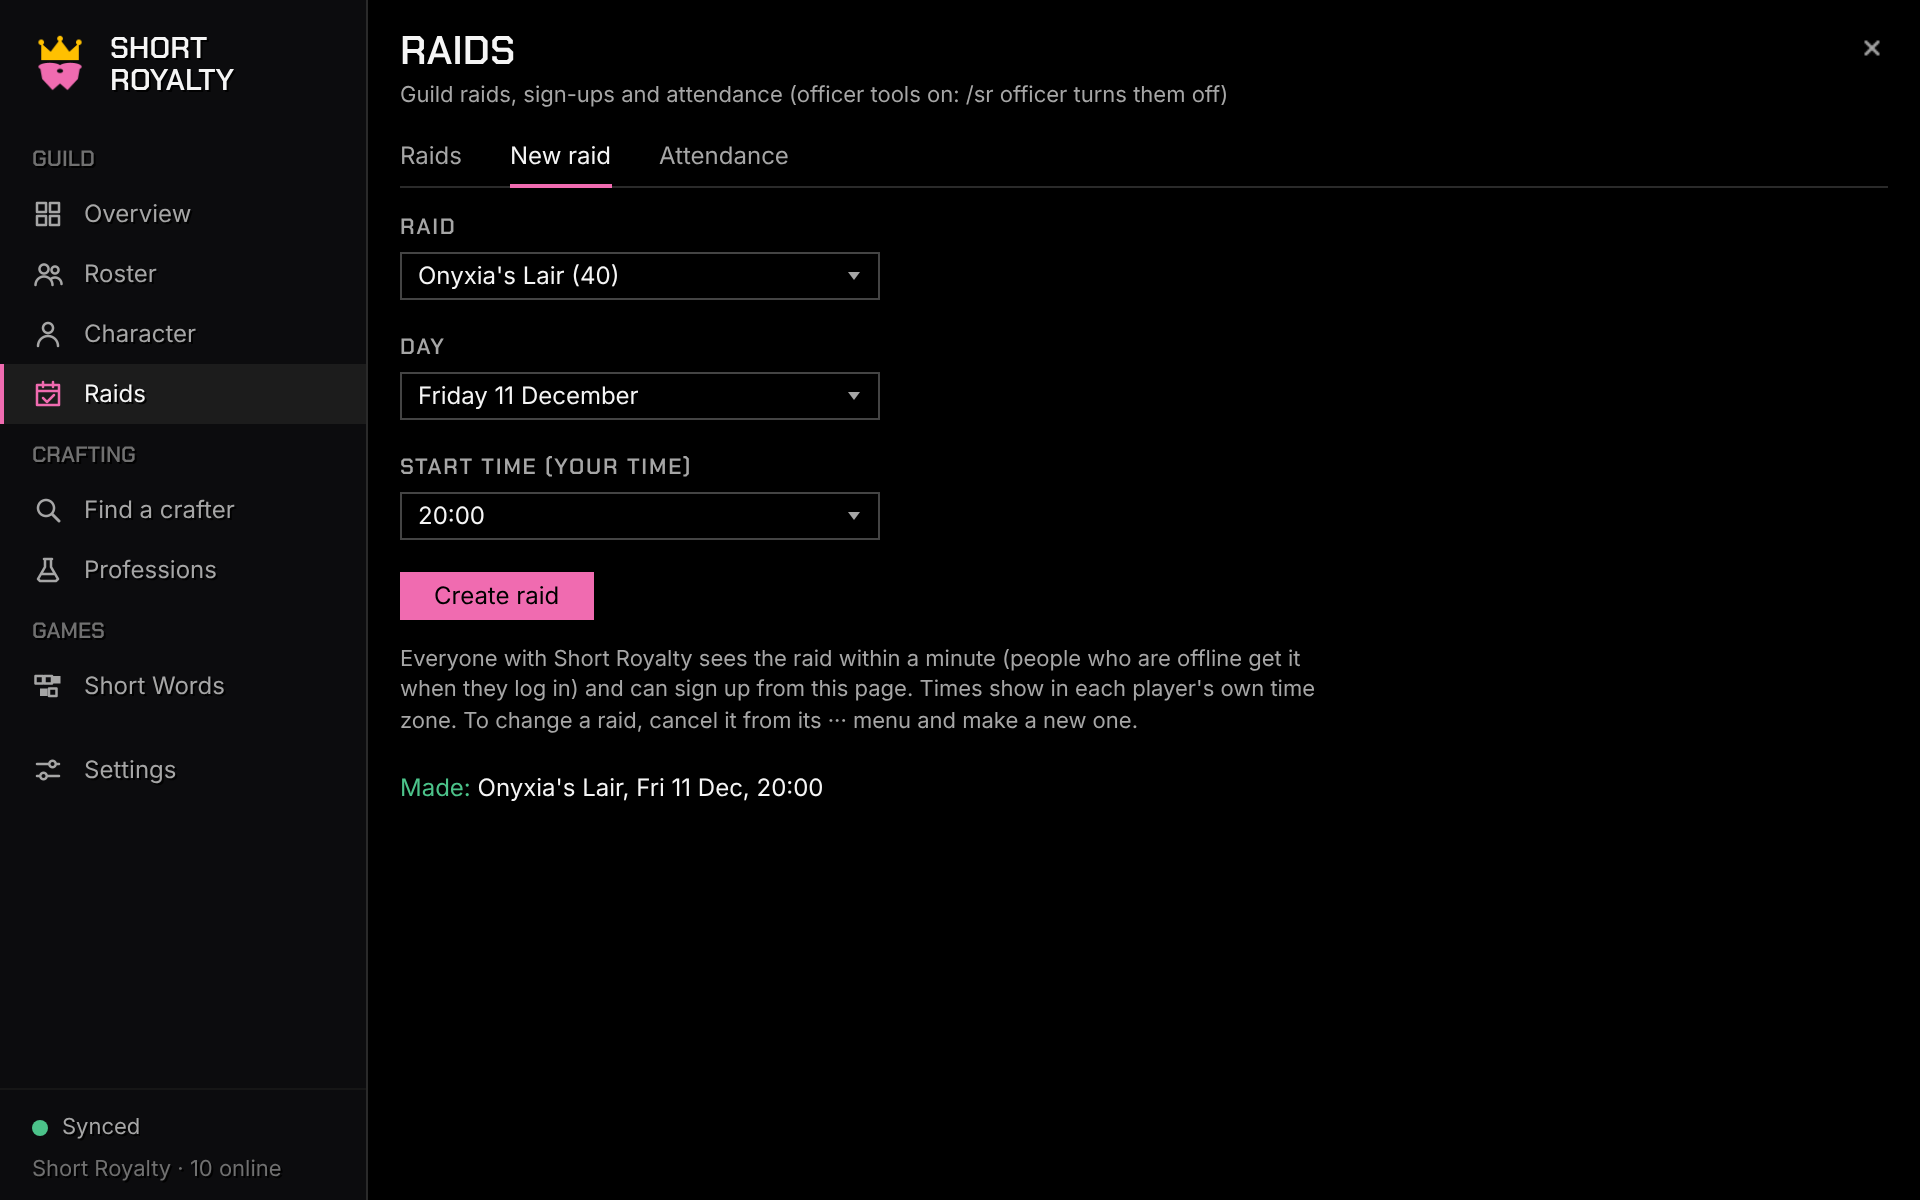
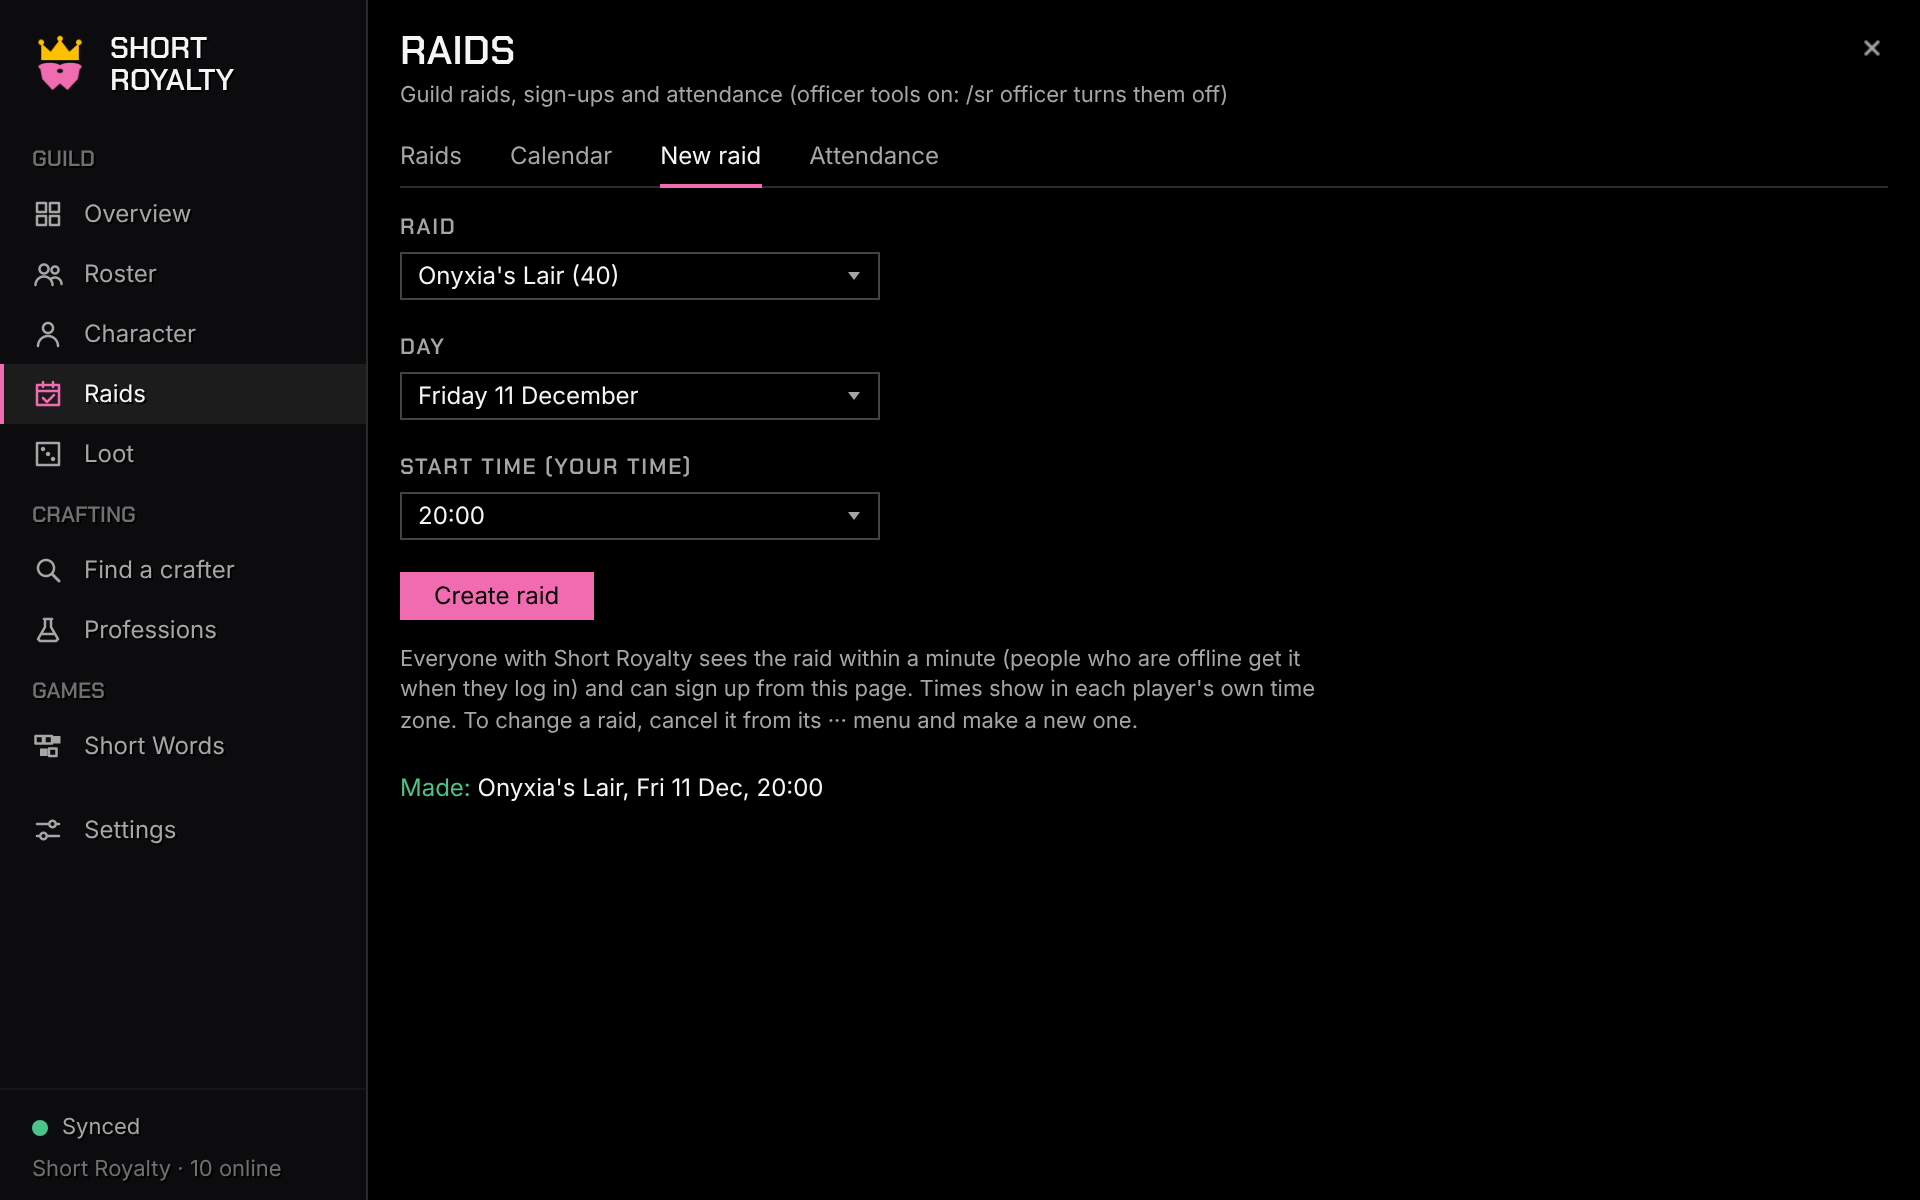
Release v0.10.2: raid calendar (month view)
Claude-Session: https://claude.ai/code/session_01A7mubGdPYGXe41A4ZcDyrF

diff --git a/preview/index.html b/preview/index.html
@@ -805,13 +805,34 @@ function words() {
 function raids() {
   const officer = S.officer === "1";
   let view = S.raidsView || "upcoming";
-  if (!officer && view !== "upcoming") view = "upcoming";
-  const tabs = [["upcoming", "Raids"]].concat(officer ? [["new", "New raid"], ["attendance", "Attendance"]] : []);
+  if (!officer && view !== "upcoming" && view !== "calendar") view = "upcoming";
+  const tabs = [["upcoming", "Raids"], ["calendar", "Calendar"]].concat(officer ? [["new", "New raid"], ["attendance", "Attendance"]] : []);
   const t0 = T.sizes.subTabs + T.space.m;
   const head = subtabs(tabs, view, "data-rv");
   const menu = (text, style) => `<div class="menu abs" style="${style}">${btn(text).replace("</span>", '<i class="arrow"></i></span>')}</div>`;
   const M = G.members;
   const nm = (m) => cls(m);
+  if (view === "calendar") {
+    // v0.10.2: December 2026 starts on a Tuesday; today = Wed 2 Dec.
+    const CW = Math.floor(T.sizes.contentW / 7), gy = t0 + 24 + 8 + 20;
+    const CH = Math.floor((600 - 60 - 4 - 16 - 30 - 12 - (24 + 8 + 20)) / 6);
+    const RAIDS = { 4: [["20:00 Onyxia", "good"]], 9: [["19:30 Barrow", ""]], 11: [["18:30 Hyjal", "acc"], ["20:00 Onyxia", "good"]], 16: [["19:30 Hyjal", ""]],
+      18: [["20:00 Onyxia", "faint"]], 23: [["19:30 Barrow", ""]], 30: [["20:00 Onyxia", ""]] };
+    let cells = "";
+    for (let i = 0; i < 42; i++) {
+      const day = i === 0 ? 30 : i <= 31 ? i : i - 31, inMonth = i >= 1 && i <= 31, today = i === 2, past = i < 2;
+      const rs = inMonth ? (RAIDS[day] || []) : [];
+      cells += `<div class="abs" style="left:${(i % 7) * CW}px;top:${gy + Math.floor(i / 7) * CH}px;width:${CW - 4}px;height:${CH - 4}px;border:1px solid var(--${today ? "accent" : "line"});background:${today ? "var(--accent-selected)" : inMonth ? "var(--surface)" : "var(--void)"}">
+        <div class="small ${today ? "" : inMonth && !past ? "dim" : "faint"}" style="padding:1px 4px">${day}</div>
+        ${rs.map((r) => `<div class="${r[1]}" style="font-size:11px;padding:0 4px;white-space:nowrap;overflow:hidden">${r[0]}</div>`).join("")}</div>`;
+    }
+    return head + `${btn("<", "", `style="position:absolute;left:0;top:${t0}px;width:32px;padding:0;justify-content:center"`)}${btn(">", "", `style="position:absolute;left:36px;top:${t0}px;width:32px;padding:0;justify-content:center"`)}
+      <div class="abs" style="left:80px;top:${t0 + 3}px;font-size:15px">December 2026</div>
+      <div class="abs dim small" style="right:72px;top:${t0 + 5}px">${officer ? "Click a day to make a raid on it" : "Click a raid to sign up"}</div>
+      ${btn("Today", "", `style="position:absolute;right:0;top:${t0}px"`)}
+      ${["Mon", "Tue", "Wed", "Thu", "Fri", "Sat", "Sun"].map((d, i) => `<div class="abs display dim" style="left:${i * CW + 4}px;top:${t0 + 32}px;font-size:11px;letter-spacing:.08em">${d.toUpperCase()}</div>`).join("")}
+      ${cells}`;
+  }
   if (view === "new") {
     const field = (label, text, y) => `<div class="abs display dim" style="left:0;top:${t0 + y}px;font-size:11px;letter-spacing:.08em">${label.toUpperCase()}</div>${menu(text, `left:0;top:${t0 + y + 20}px;width:240px`)}`;
     return head + field("Raid", "Onyxia's Lair (40)", 0) + field("Day", "Friday 11 December", 60) + field("Start time (your time)", "20:00", 120) +

diff --git a/docs/mockups/render.js b/docs/mockups/render.js
@@ -39,6 +39,7 @@ const SHOTS = {
   "short-words-flight": ["shot=flight", 840, 180],
   "short-words-free": ["shot=1&screen=words&data=full&wordsView=free&wordsBoard=all", W, H],
   raids: ["shot=1&screen=raids&data=full", W, H],
+  "raids-calendar": ["shot=1&screen=raids&data=full&raidsView=calendar", W, H],
   "roster-officers": ["shot=1&screen=roster&data=full&officer=1&rosterView=officers", W, H],
   "raids-new": ["shot=1&screen=raids&data=full&officer=1&raidsView=new", W, H],
   "raids-attendance": ["shot=1&screen=raids&data=full&officer=1&raidsView=attendance", W, H],

diff --git a/README.md b/README.md
@@ -5,7 +5,7 @@
 <p align="center">
   <a href="https://github.com/EllisKOsborn/forever-shortroyalty/actions/workflows/ci.yml"><img alt="Tests" src="https://github.com/EllisKOsborn/forever-shortroyalty/actions/workflows/ci.yml/badge.svg?branch=main"></a>
   <img alt="WoW Forever 1.60.1" src="https://img.shields.io/badge/WoW%20Forever-1.60.1%20%C2%B7%2016001-FFC000?labelColor=000000">
-  <img alt="Version" src="https://img.shields.io/badge/version-0.10.1%20alpha-F06BB0?labelColor=000000">
+  <img alt="Version" src="https://img.shields.io/badge/version-0.10.2%20alpha-F06BB0?labelColor=000000">
   <img alt="Licence MIT" src="https://img.shields.io/badge/licence-MIT-FF6A1A?labelColor=000000">
 </p>
 
@@ -131,6 +131,9 @@ people who were offline get them when they log in. `/sr raids` opens the page.
 - **In or Bench** (v0.10.0): officers pick the raid from the sign-ups, and **everyone sees it**: a *Raid* column (In / Bench), "You're in" or "You're on the bench" under the buttons and on the Overview, and the counts switch to the people In ("In 18 / 40: Tanks 2 · Healers 5 · DPS 11 · Bench 3"). Officers click a name to put them In, then Bench, then undecided again; right-click opens their character.
 - **Discord, without any program** (v0.10.0): addons can't reach the internet, so it's copy and paste. The ··· menu has **Copy for Discord**: a ready announcement (raid, time shown in each reader's own time zone, who's signed up by role, In and Bench) to paste into a Discord channel. Officers also get **Import sign-ups from Discord**: paste the sign-up list from Discord (any bot's list, or names typed by hand) and the addon signs those players up, by role and tentative / can't come. Names must match characters in the guild (a full name, or a first name only one member has); lines it can't match are listed. A sign-up a player made themselves in game is never overwritten.
 - The ··· menu also copies the line-up as plain text.
+- **Calendar** (v0.10.2): a month view with each raid on its day, coloured by your answer (green signed up or in, pink bench). Click a raid to open it; officers click a day in the next two weeks to make a raid on it. **<** / **>** change month, **Today** comes back.
+
+<p align="center"><img src="docs/images/raids-calendar.png" alt="Raids calendar: December with raids on their days" width="100%"></p>
 
 **Officer tools.** Officers, raid leaders and the Guild Master type
 `/sr officer` to switch on two more tabs (per character; type it again to

diff --git a/CLAUDE.md b/CLAUDE.md
@@ -29,6 +29,16 @@ talents, professions, recipes, attunements and reputations in game. Data is
 shared only over the guild **addon channel**: no website, no server, no uploads.
 
 ## Start here (handover, 14 Nov 2026)
+- **v0.10.2 (released 20 Nov on `main`, same go-ahead): raid calendar**
+  (step 3, last of the officers' asks we're building; automatic scheduling
+  dropped by the owner). `UI/RaidsTab.lua`: view `calendar` (everyone),
+  pure `RT.MonthGrid(year, month, board, now, me)` (42 cells from Monday,
+  raids per local day, cancelled left out, `mine`/`place`) and
+  `RT.ShiftMonth`; `BuildCalendar/RefreshCalendar` (cells, up to
+  `CAL_PER_DAY` 3 raid lines + "+N more"), `RT.calMonth` (nil = this
+  month), `RT:CalendarDay` (officers: a day 0–13 days ahead → New raid with
+  `newRaid.day`). Tests `tests/v0102_calendar_spec.lua`; picture
+  `raids-calendar.png`. TESTING 55–56.
 - **v0.10.1 (released 20 Nov on `main`, same go-ahead as v0.10.0): Officers view on the Roster**
   (step 2 of the officers' asks). `Core/OfficerDir.lua`:
   `guild.officerDir["r|n|a:" .. guid] = { v, u, by }` (roles "THD" subset,
@@ -1328,8 +1338,8 @@ refer to `git show v0.6.0:TESTING.md`.
    and `/sr debug` "Loot method" inside a raid group (master loot?);
    offline bench at the lock: no bonus only (built), or a penalty too?
 6. Officer roster + raid calendar: owner answered 20 Nov (see Start here
-   v0.10.0). Officer roster built (v0.10.1); next: the calendar month
-   view. TESTING 49–54.
+   v0.10.0). Built and released 20 Nov: v0.10.0 In/Bench + Discord copy
+   and paste, v0.10.1 officer roster, v0.10.2 calendar. TESTING 49–56.
 
 ## Answers already given to the guild (stay consistent)
 - **Alts:** linked automatically once each alt has logged in with the addon

diff --git a/CHANGELOG.md b/CHANGELOG.md
@@ -1,5 +1,15 @@
 # Changelog
 
+## v0.10.2 (20 Nov 2026): raid calendar
+
+- **Raids → Calendar**: a month view like the game's calendar, weeks from
+  Monday, with each guild raid on its day ("20:00 Onyxia"). Green = you
+  signed up or you're in, pink = you're on the bench, grey = can't come.
+  Click a raid to open it and sign up. **<** and **>** change month,
+  **Today** comes back.
+- Officers (with `/sr officer`): click a day in the next two weeks to make a
+  raid on it (New raid opens with that day picked).
+
 ## v0.10.1 (20 Nov 2026): Officers view on the Roster
 
 - **Roster → Officers** (officers and raid leaders with `/sr officer`): every

diff --git a/TESTING.md b/TESTING.md
@@ -219,3 +219,11 @@ addon read.
     within a minute (or about 2 minutes after logging in).
 54. [ ] The *Attend.* column matches the Attendance tab's 30-day totals.
 
+## v0.10.2 Raid calendar
+
+55. [ ] **Raids → Calendar**: this month, weeks from Monday, today outlined,
+    each raid on the right day at the right time for you. Click a raid: it
+    opens on the Raids tab. **<** / **>** / **Today** work.
+56. [ ] Officers: click an empty day in the next two weeks: New raid opens
+    with that day picked.
+
